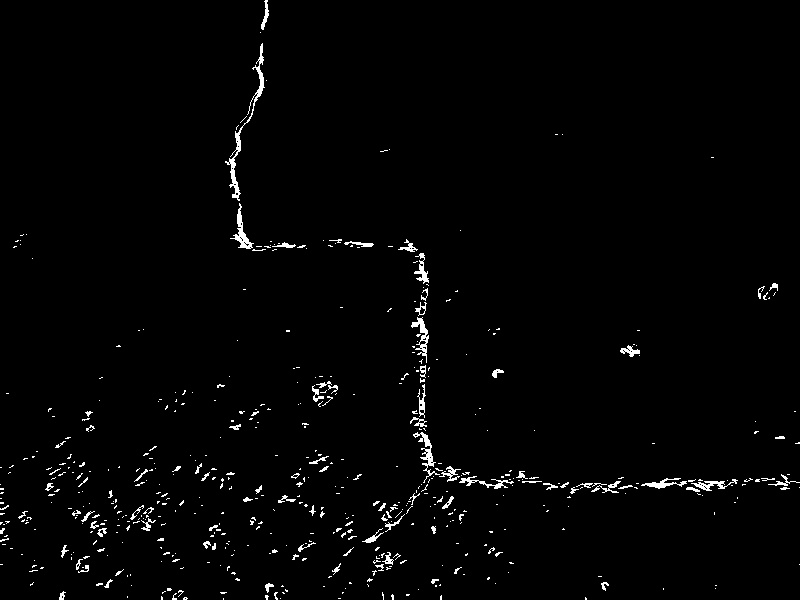
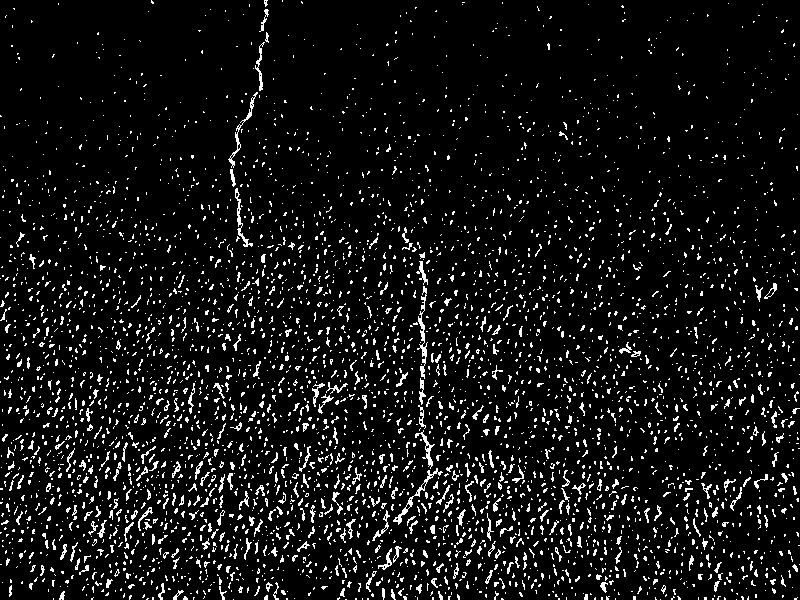
Ajout commentaires version finale

diff --git a/TP1/bestResult.cpp b/TP1/bestResult.cpp
@@ -6,13 +6,15 @@
 using namespace std;
 using namespace cv;
 
+//State of the pixel studied
 enum pixelState
 {
-	TP,
-	FP,
-	FN
+	TP, //TruePositive
+	FP, //FalsePositie
+	FN  //FalseNegative
 };
 
+//Struct use to store best values for debug purpose
 struct bestValues
 {
 	int threshold;
@@ -26,7 +28,11 @@ struct bestValues
 Mat sobel(Mat grayscaleInput, uchar seuil)
 {
 	Mat grayscaleCopy = grayscaleInput.clone();
+
+	//Denoising the image before applying the sobel filter
 	fastNlMeansDenoising(grayscaleCopy, grayscaleCopy, 3, 7, 10);
+
+	//Denoising using a gaussian blur
 	GaussianBlur(grayscaleCopy, grayscaleCopy, Size(7, 5), 0, 0, BORDER_DEFAULT);
 
 	Mat output(grayscaleCopy.size(), grayscaleCopy.type());
@@ -55,7 +61,11 @@ Mat sobel(Mat grayscaleInput, uchar seuil)
 Mat laplacian(Mat grayscaleInput, uchar seuil)
 {
 	Mat grayscaleCopy = grayscaleInput.clone();
+
+	//Denoising the image before applying the laplacian
 	fastNlMeansDenoising(grayscaleCopy, grayscaleCopy, 3, 7, 10);
+
+	//Denoising using a gaussian blur
 	GaussianBlur(grayscaleCopy, grayscaleCopy, Size(3, 3), 0, 0, BORDER_DEFAULT);
 
 	Mat output(grayscaleCopy.size(), grayscaleCopy.type());
@@ -122,14 +132,22 @@ void evaluation(Mat userDetectionMat, Mat realDetectionMat, double &r_, double &
 				//Here userPixel is 255 so it can either be truePositive or falsePositive
 				if (userPixel == 255)
 				{
+					//3x3 Detection around the pixel
 					for (int k = 0; k < 9; k++)
 					{
+						/*Both can have a value of -1, 0 or 1
+                         * (-1,-1)  (0,-1)  (1,-1)
+                         * (-1, 0)  (0, 0)  (1, 0)
+                         * (-1, 1)  (0, 1)  (1, 1)
+                         */
 						int rowPadding = (k % 3) - 1;
 						int colPadding = (k / 3) - 1;
 
+						//To not get out of the image
 						if (colPadding == -1 && i == 0 || colPadding == 1 && i == userDetectionMat.cols - 1)
 							continue;
 
+						//To not get out of the image
 						if (rowPadding == -1 && j == 0 || rowPadding == 1 && j == userDetectionMat.rows - 1)
 							continue;
 
@@ -150,15 +168,22 @@ void evaluation(Mat userDetectionMat, Mat realDetectionMat, double &r_, double &
 				//Here realPixel can't be 255 so it can either be truePositive or falseNegative
 				else if (realPixel == 255)
 				{
+					//3x3 Detection around the pixel
 					for (int k = 0; k < 9; k++)
 					{
+						/*Both can have a value of -1, 0 or 1
+                         * (-1,-1)  (0,-1)  (1,-1)
+                         * (-1, 0)  (0, 0)  (1, 0)
+                         * (-1, 1)  (0, 1)  (1, 1)
+                         */
 						int rowPadding = (k % 3) - 1;
 						int colPadding = (k / 3) - 1;
 
-						//std::cout << j << "+" << rowPadding << " x " << i << "+" << colPadding << std::endl;
+						//To not get out of the image
 						if (colPadding == -1 && i == 0 || colPadding == 1 && i == userDetectionMat.cols - 1)
 							continue;
 
+						//To not get out of the image
 						if (rowPadding == -1 && j == 0 || rowPadding == 1 && j == userDetectionMat.rows - 1)
 							continue;
 
@@ -230,6 +255,7 @@ int main(int argc, char **argv)
 		return -1;
 	}
 
+	//Test and selection of the best threshold
 	for (int i = 0; i <= 255; i++)
 	{
 		tmp = seuilDeGris(grayscaleInput, i);
@@ -240,11 +266,14 @@ int main(int argc, char **argv)
 				  << "R : " << r << std::endl
 				  << std::endl;
 
+		//Calculating the distance of point (p,r) to point (1,1)
 		distTmp = sqrt(pow(1 - r, 2) + pow(1 - p, 2));
 		if (distTmp < dist)
 		{
 			dist = distTmp;
 			seuilgris = tmp;
+
+			//Best values (for logging purpose)
 			bestGrayscale.threshold = i;
 			bestGrayscale.p = p;
 			bestGrayscale.r = r;
@@ -253,6 +282,7 @@ int main(int argc, char **argv)
 
 	dist = 10;
 
+	//Test and selection of the best threshold
 	for (int i = 0; i <= 255; i++)
 	{
 		tmp = sobel(grayscaleInput, i);
@@ -263,25 +293,29 @@ int main(int argc, char **argv)
 				  << "R : " << r << std::endl
 				  << std::endl;
 
+		//Calculating the distance of point (p,r) to point (1,1)
 		distTmp = sqrt(pow(1 - r, 2) + pow(1 - p, 2));
 		if (distTmp < dist)
 		{
 			dist = distTmp;
 			sobel_ = tmp;
+
+			//Best values (for logging purpose)
 			bestSobel.threshold = i;
 			bestSobel.p = p;
 			bestSobel.r = r;
 		}
-		tmp.release();
 	}
 
 	dist = 10;
 
+	//Test and selection of the best threshold
 	for (int i = 0; i <= 255; i++)
 	{
 		tmp = laplacian(grayscaleInput, i);
 		evaluation(tmp, expectedResultPic, r, p);
 
+		//Calculating the distance of point (p,r) to point (1,1)
 		std::cout << "Seuil (Laplacian) : " << i << std::endl
 				  << "P : " << p << std::endl
 				  << "R : " << r << std::endl
@@ -292,12 +326,13 @@ int main(int argc, char **argv)
 		{
 			dist = distTmp;
 			laplacian_ = tmp;
+
+			//Best values (for logging purpose)
 			bestLaplacian.threshold = i;
 			bestLaplacian.p = p;
 			bestLaplacian.r = r;
 		}
 	}
-
 
 	//Creation of the result image
 	for (int i = 0; i < grayscaleInput.rows; i++)
@@ -308,18 +343,16 @@ int main(int argc, char **argv)
 			{
 				result.at<uchar>(i, j) = seuilgris.at<uchar>(i, j);
 			}
-			if(seuilgris.at<uchar>(i, j) == laplacian_.at<uchar>(i, j)){
+			if (seuilgris.at<uchar>(i, j) == laplacian_.at<uchar>(i, j))
+			{
 				result.at<uchar>(i, j) = seuilgris.at<uchar>(i, j);
 			}
-			if(sobel_.at<uchar>(i, j) == laplacian_.at<uchar>(i, j)){
+			if (sobel_.at<uchar>(i, j) == laplacian_.at<uchar>(i, j))
+			{
 				result.at<uchar>(i, j) = sobel_.at<uchar>(i, j);
 			}
 		}
 	}
-
-	// Applying Blur effect on the
-	//Mat kernel = Mat::ones(7, 7, CV_32F);
-	//morphologyEx(result, result, MORPH_CLOSE, kernel);
 
 	imshow("seuilgris  Image", seuilgris);
 	imshow("sobel  Image", sobel_);
@@ -345,7 +378,7 @@ int main(int argc, char **argv)
 			  << "P : " << p << std::endl
 			  << "R : " << r << std::endl;
 
-	imwrite( output, result );
+	imwrite(output, result);
 
 	waitKey(0);
 	return 0;

diff --git a/TP1/evaluation.cpp b/TP1/evaluation.cpp
@@ -63,16 +63,23 @@ int evaluation(const char *expectedResultImagePath, const char *userImagePath)
                 //Here userPixel is 255 so it can either be truePositive or falsePositive
                 if (userPixel == 255)
                 {
+                    //3x3 Detection around the pixel
                     for (int k = 0; k < 9; k++)
                     {
+                        /*Both can have a value of -1, 0 or 1
+                         * (-1,-1)  (0,-1)  (1,-1)
+                         * (-1, 0)  (0, 0)  (1, 0)
+                         * (-1, 1)  (0, 1)  (1, 1)
+                         */
                         int rowPadding = (k % 3) - 1;
                         int colPadding = (k / 3) - 1;
 
-                        //std::cout << j << "+" << rowPadding << " x " << i << "+" << colPadding << std::endl;
-                        if (colPadding == -1 && i == 0 || colPadding == 1 && i == userDetectionMat.rows - 1)
+                        //To not get out of the image
+                        if (colPadding == -1 && i == 0 || colPadding == 1 && i == userDetectionMat.cols - 1)
                             continue;
 
-                        if (rowPadding == -1 && j == 0 || rowPadding == 1 && j == userDetectionMat.cols - 1)
+                        //To not get out of the image
+                        if (rowPadding == -1 && j == 0 || rowPadding == 1 && j == userDetectionMat.rows - 1)
                             continue;
 
                         realPixel = realDetectionDataPtr[realDetectionMat.step * (j + rowPadding) + (i + colPadding)];
@@ -92,16 +99,23 @@ int evaluation(const char *expectedResultImagePath, const char *userImagePath)
                 //Here realPixel can't be 255 so it can either be truePositive or falseNegative
                 else if (realPixel == 255)
                 {
+                    //3x3 Detection around the pixel
                     for (int k = 0; k < 9; k++)
                     {
+                        /*Both can have a value of -1, 0 or 1
+                         * (-1,-1)  (0,-1)  (1,-1)
+                         * (-1, 0)  (0, 0)  (1, 0)
+                         * (-1, 1)  (0, 1)  (1, 1)
+                         */
                         int rowPadding = (k % 3) - 1;
                         int colPadding = (k / 3) - 1;
 
-                        //std::cout << j << "+" << rowPadding << " x " << i << "+" << colPadding << std::endl;
-                        if (colPadding == -1 && i == 0 || colPadding == 1 && i == userDetectionMat.rows - 1)
+                        //To not get out of the image
+                        if (colPadding == -1 && i == 0 || colPadding == 1 && i == userDetectionMat.cols - 1)
                             continue;
 
-                        if (rowPadding == -1 && j == 0 || rowPadding == 1 && j == userDetectionMat.cols - 1)
+                        //To not get out of the image
+                        if (rowPadding == -1 && j == 0 || rowPadding == 1 && j == userDetectionMat.rows - 1)
                             continue;
 
                         userPixel = userDetectionDataPtr[userDetectionMat.step * (j + rowPadding) + (i + colPadding)];
@@ -137,8 +151,9 @@ int evaluation(const char *expectedResultImagePath, const char *userImagePath)
         r = truePositive / (truePositive + falseNegative);
     }
 
-    std::cout <<  "P : " << p << std::endl
-    << "R : " << r << std::endl << std::endl;
+    std::cout << p << std::endl
+              << r << std::endl
+              << std::endl;
 }
 
 int main(int argc, char **argv)
